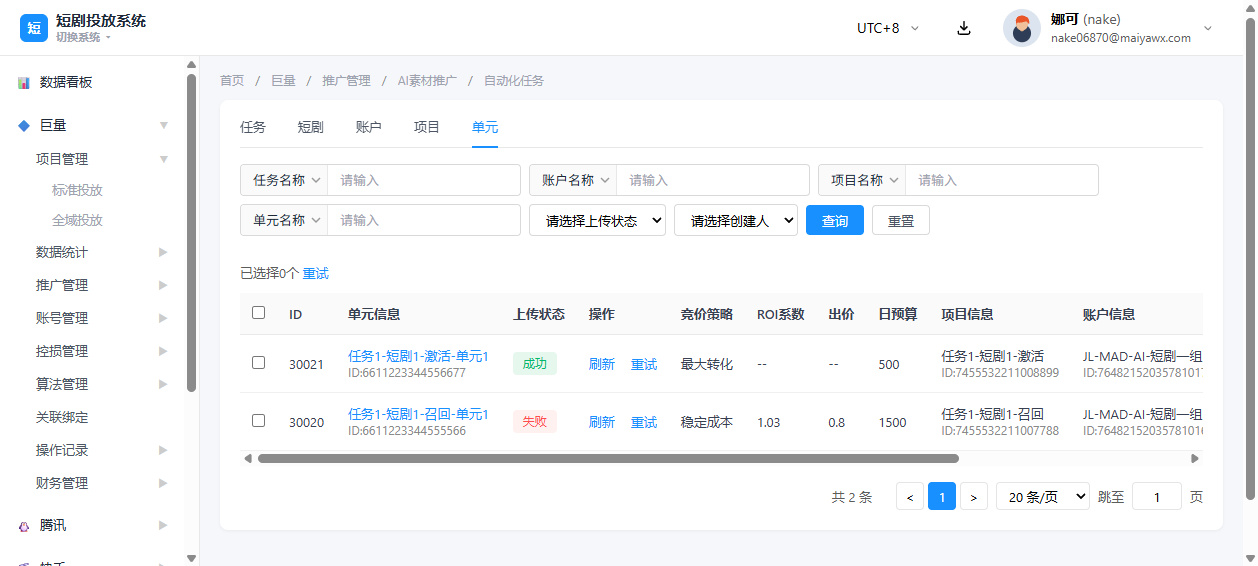
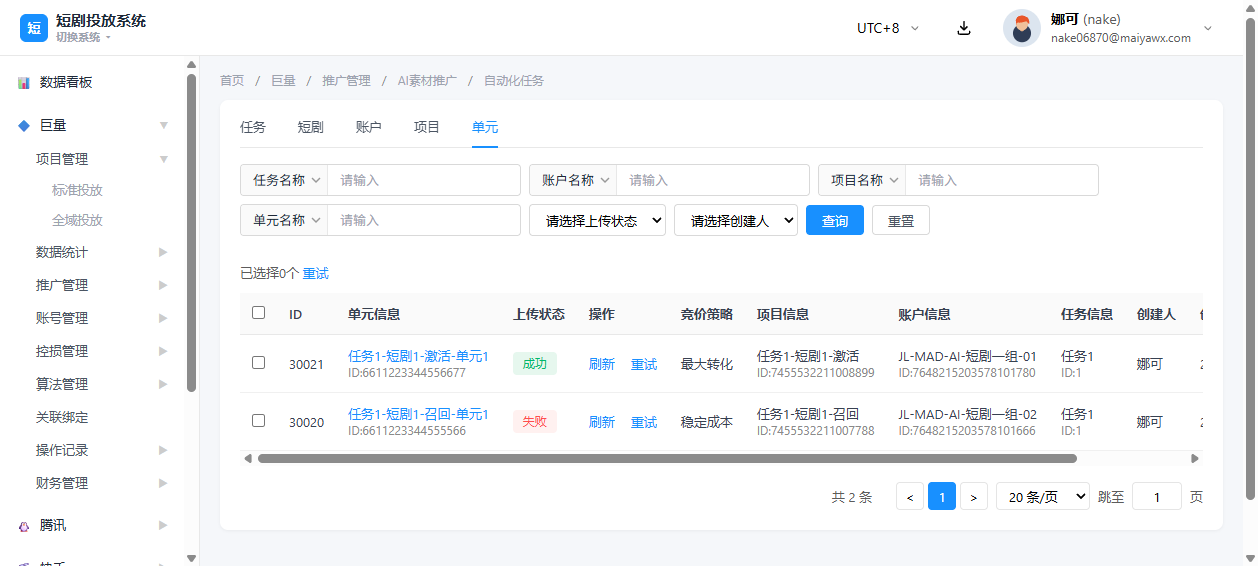
feat(domestic): AI素材推广自动化任务-项目页签新增ROI系数、单元页签移除ROI系数/出价/日预算

diff --git a/index.html b/index.html
@@ -1663,9 +1663,6 @@
                           <th>上传状态</th>
                           <th>操作</th>
                           <th>竞价策略</th>
-                          <th>ROI系数</th>
-                          <th>出价</th>
-                          <th>日预算</th>
                           <th>项目信息</th>
                           <th>账户信息</th>
                           <th>任务信息</th>
@@ -1684,9 +1681,6 @@
                           <td><span class="tag tag-success">成功</span></td>
                           <td><div class="row-actions"><button class="row-action-btn" onclick="refreshAiAutoRow('单元',30021)">刷新</button> <button class="row-action-btn" onclick="retryAiAutoRow('单元',30021)">重试</button></div></td>
                           <td>最大转化</td>
-                          <td>--</td>
-                          <td>--</td>
-                          <td>500</td>
                           <td>
                             任务1-短剧1-激活
                             <div style="font-size: 12px; color: var(--color-text-tertiary);">ID:7455532211008899</div>
@@ -1712,9 +1706,6 @@
                           <td><span class="tag tag-error">失败</span></td>
                           <td><div class="row-actions"><button class="row-action-btn" onclick="refreshAiAutoRow('单元',30020)">刷新</button> <button class="row-action-btn" onclick="retryAiAutoRow('单元',30020)">重试</button></div></td>
                           <td>稳定成本</td>
-                          <td>1.03</td>
-                          <td>0.8</td>
-                          <td>1500</td>
                           <td>
                             任务1-短剧1-召回
                             <div style="font-size: 12px; color: var(--color-text-tertiary);">ID:7455532211007788</div>
